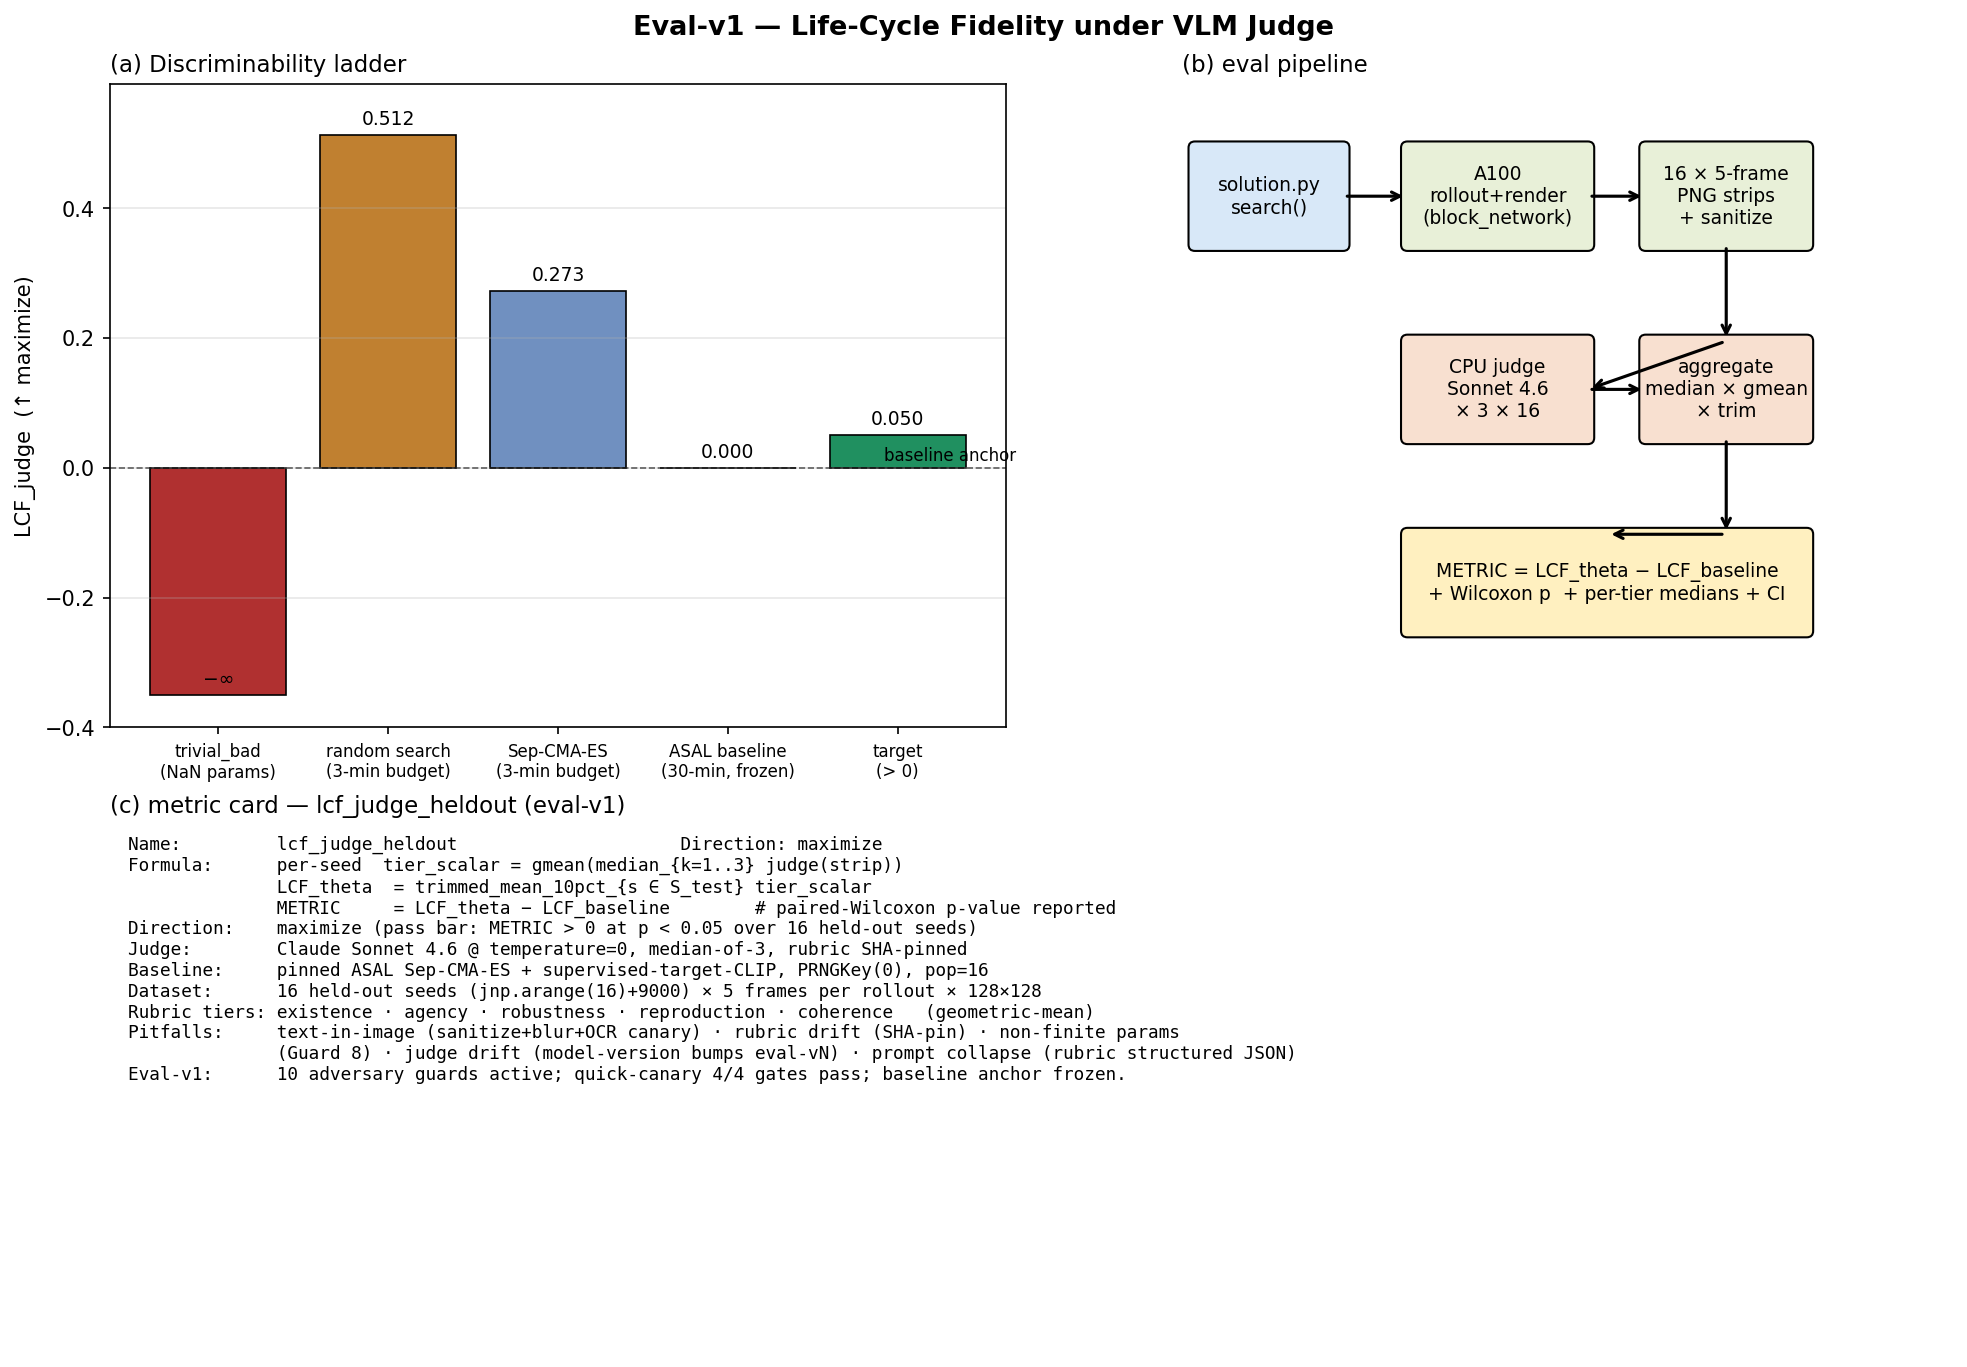
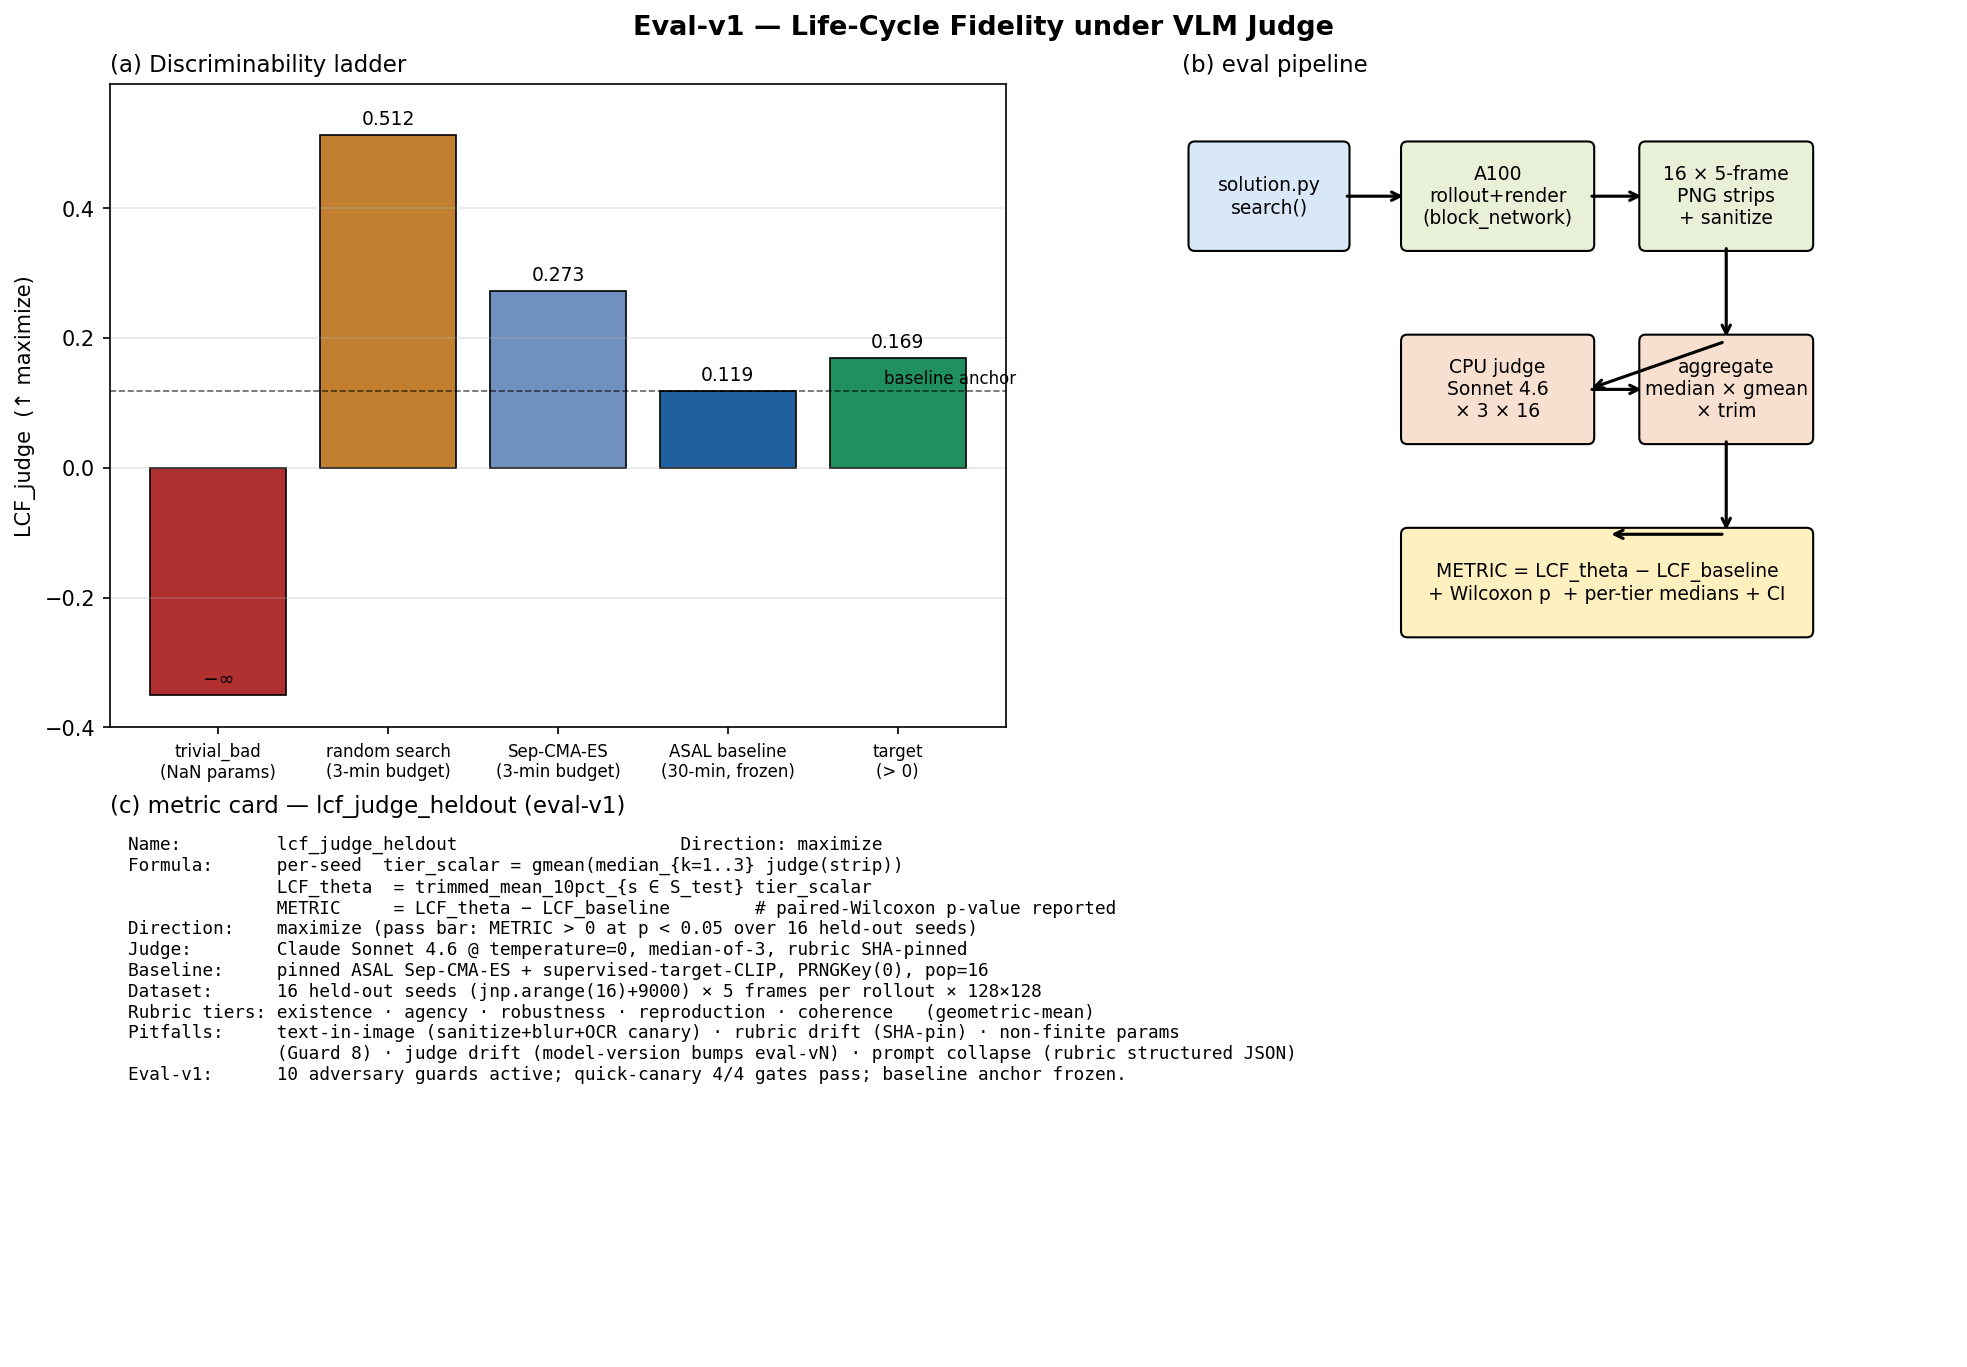
phase 2.5: freeze baseline (Sep-CMA-ES+CLIP-OE 3min proxy, ASAL supervised-target deferred due to OOM)

Changed region(s): [[0.3101, 0.2458, 0.4962, 0.3687]]

diff --git a/research/eval/evaluator.py b/research/eval/evaluator.py
@@ -84,8 +84,7 @@ UNIFORM_TIER_RANGE_MIN = 0.02
[1 lines of base64/hex data omitted]
 
 # Guard 10 — baseline SHA; None until campaign freeze at Phase 2.5.
-BASELINE_SHA256: str | None = None
-
[1 lines of base64/hex data omitted]
 # Guard 1 — rubric system prompt EMBEDDED (never read from repo in search container).
 RUBRIC_SYSTEM_PROMPT = (
     "You are a strict scientific rater evaluating artificial-life simulations.\n"
